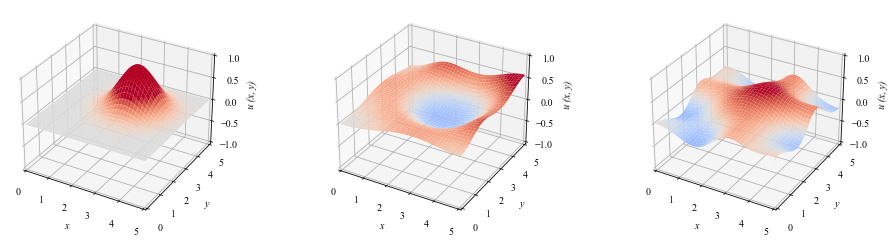
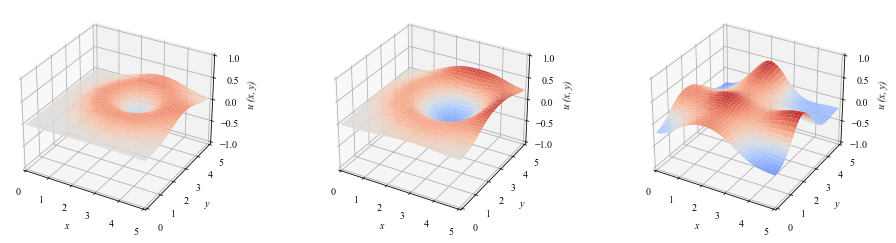
added figures

Changed region(s): [[0.7188, 0.2305, 0.9375, 0.7202], [0.375, 0.2305, 0.5938, 0.6626], [0.0625, 0.2593, 0.25, 0.5761]]

diff --git a/03_wave/README.md b/03_wave/README.md
@@ -7,7 +7,7 @@ FDM simulation (at t = 0.0, 2.0, 5.0 (s)):
 <img src="./figures/FDM.png">
 
 PINN solution (at t = 0.0, 2.0, 5.0 (s)):
-<img src="./figures/FDM.png">
+<img src="./figures/PINN.png">
 
 ## Usage
 Simply type
